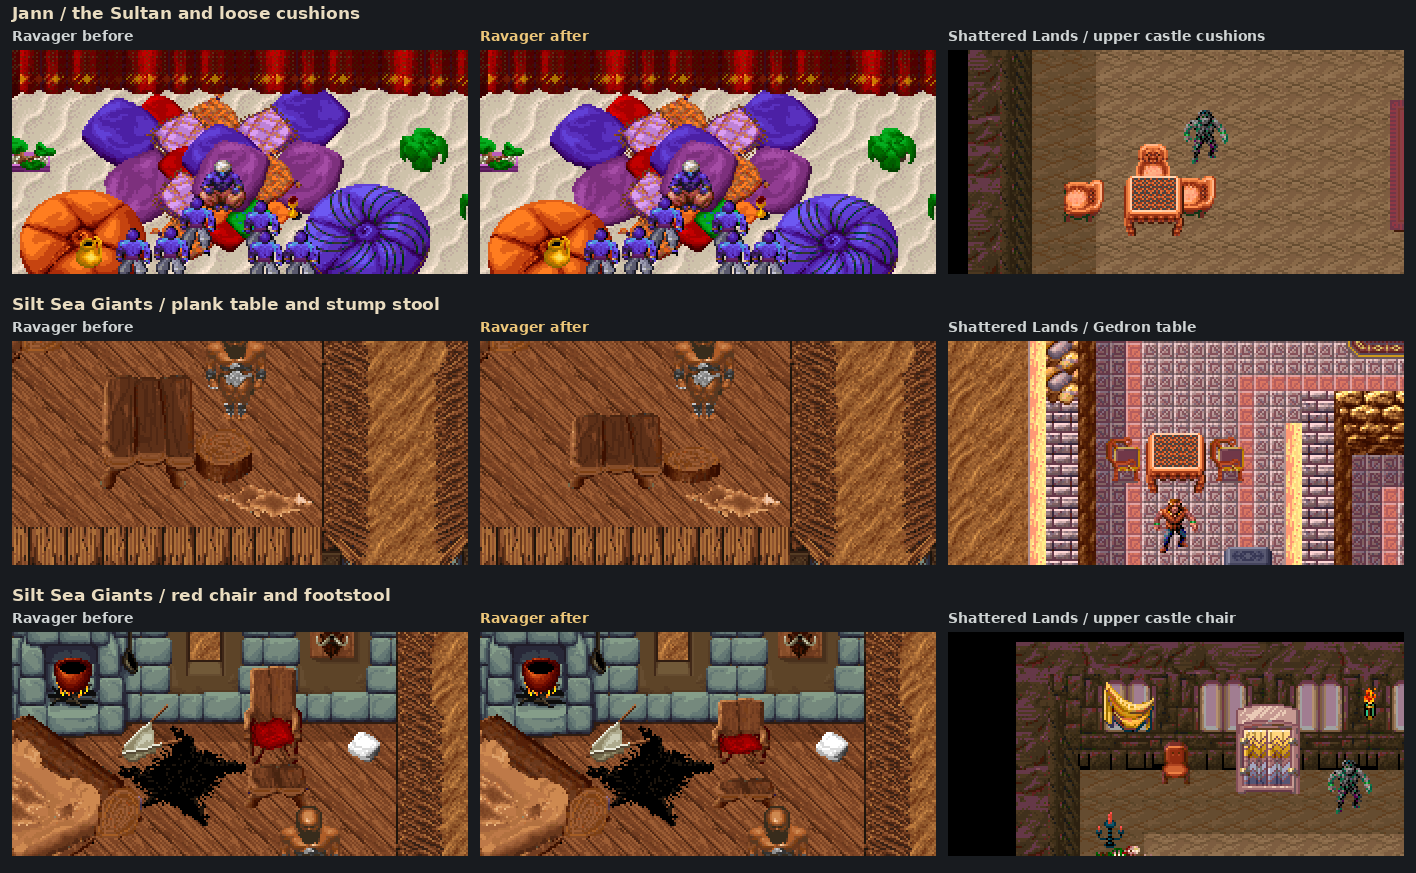
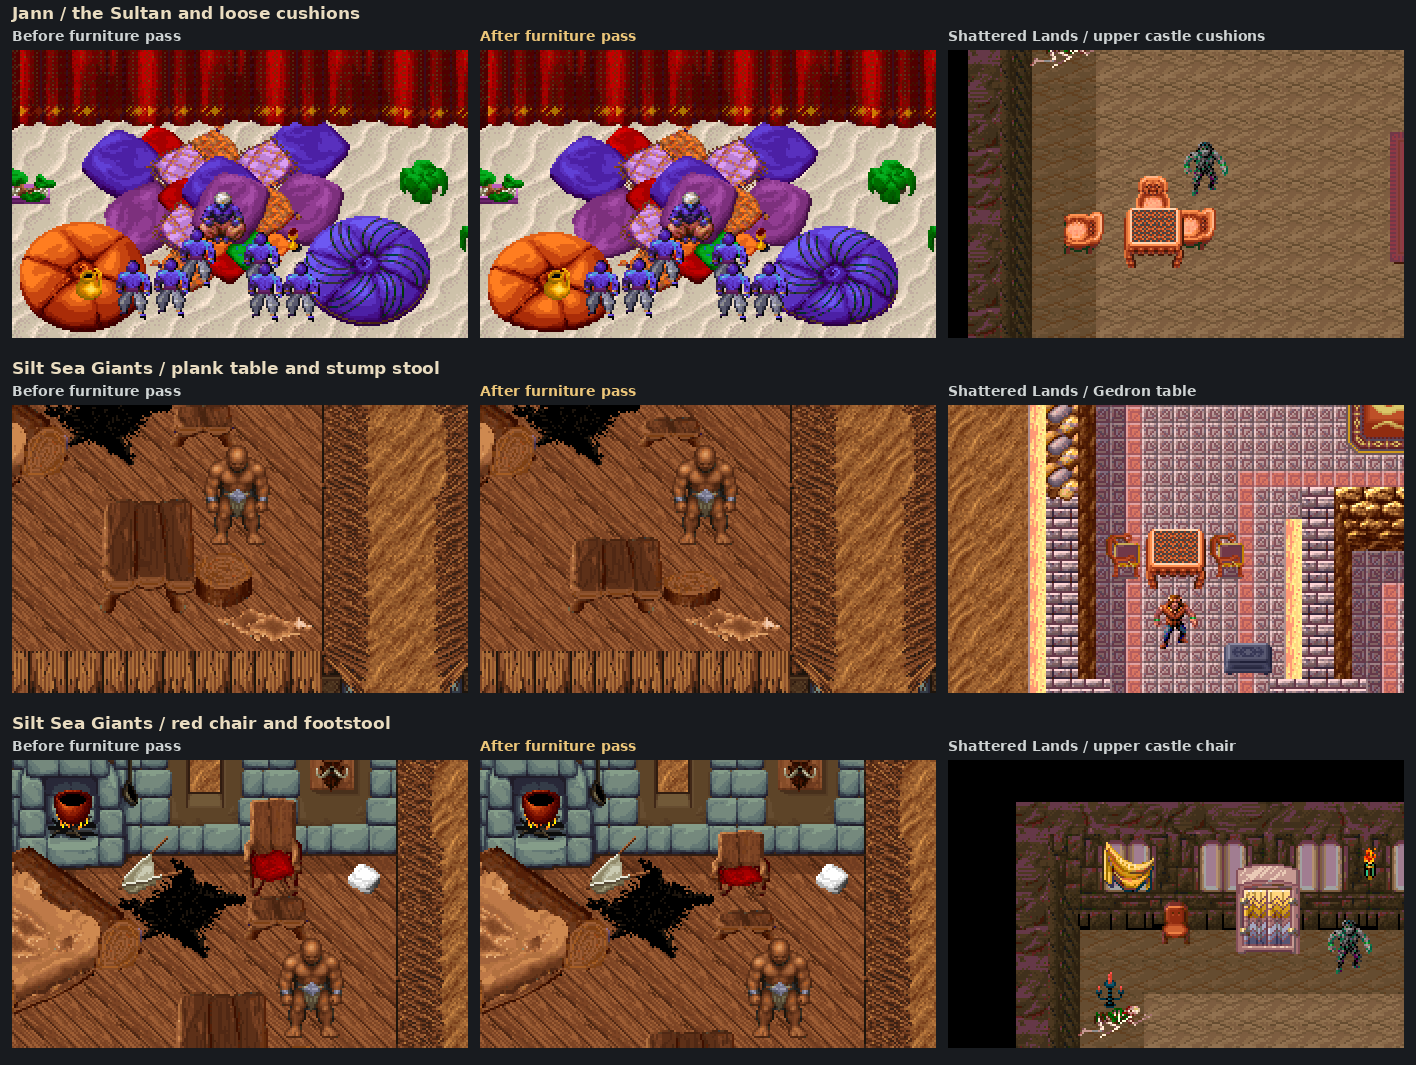
Show Gilad's scripted standing redraw in the furniture comparisons

diff --git a/reports/ravager-furniture/README.md b/reports/ravager-furniture/README.md
@@ -46,7 +46,11 @@ The fourth pass changes 14 pictures at 26 placements. On the maps, the gold rect
 - **Silt Sea Giants.** The red chair drops from 49 to 33 visible rows. At the plank table, look at the stump stool and the giant standing behind it. The table keeps its 48-pixel width and both pieces sit on their original floor lines. The seven revised pictures also include the two angled wooden furnishings, the wall-side table and the low footstool. Generoe’s occupied rocker keeps all four poses from the figure redraw.
 - **Mosaic.** The movable bookcase beside Fletch and Ikibod’s stocked work surface already have the earlier artwork. The museum’s sixteen display positions form a puzzle. The data includes empty, damaged and dressed busts, plus separate bust objects in Limbo. The game asks the player to move Horace to another stand, remove Ellith and break Khildril. Keep the display heights pending a playthrough of those transitions.
 
-The figure sheet shows the rooms from the built mod. Comparing the previous and new Loader output found changes only in the 14 selected pictures. All 26 placements produced a visible pixel change when checked individually. The maps use each picture’s first stored pose. Direct in-game inspection of the revised rooms is still open.
+The figure sheet shows the rooms from the built mod. Comparing the previous and new Loader output found changes only in the 14 selected pictures. All 26 placements produced a visible pixel change when checked individually. Both furniture columns use the figure redraw. The standing village giants use the idle frame and foot anchor from their animation script. Other pictures in these static renders use their first stored pose. Direct in-game inspection of the revised rooms is still open.
+
+The giant behind the stump stool is Gilad, object 214 at (500, 602). He also appears at the lower edge of the red-chair view. The earlier preview selected picture 2469’s frame 0, which the mod retains from the original game. For the same facing, the approved animation script selects frame 12. Both furniture builds match the approved picture and script byte for byte. The close-up below holds the furniture fixed to show the pose correction.
+
+![Gilad with the original pose used in the earlier preview and the approved standing pose in the corrected preview](gilad-standing-pose.png)
 
 ![Fletch, Ikibod and the Mosaic displays above Utella, the seated Sultan and Generoe](jann-mosaic-giants-figure-review.png)
 
